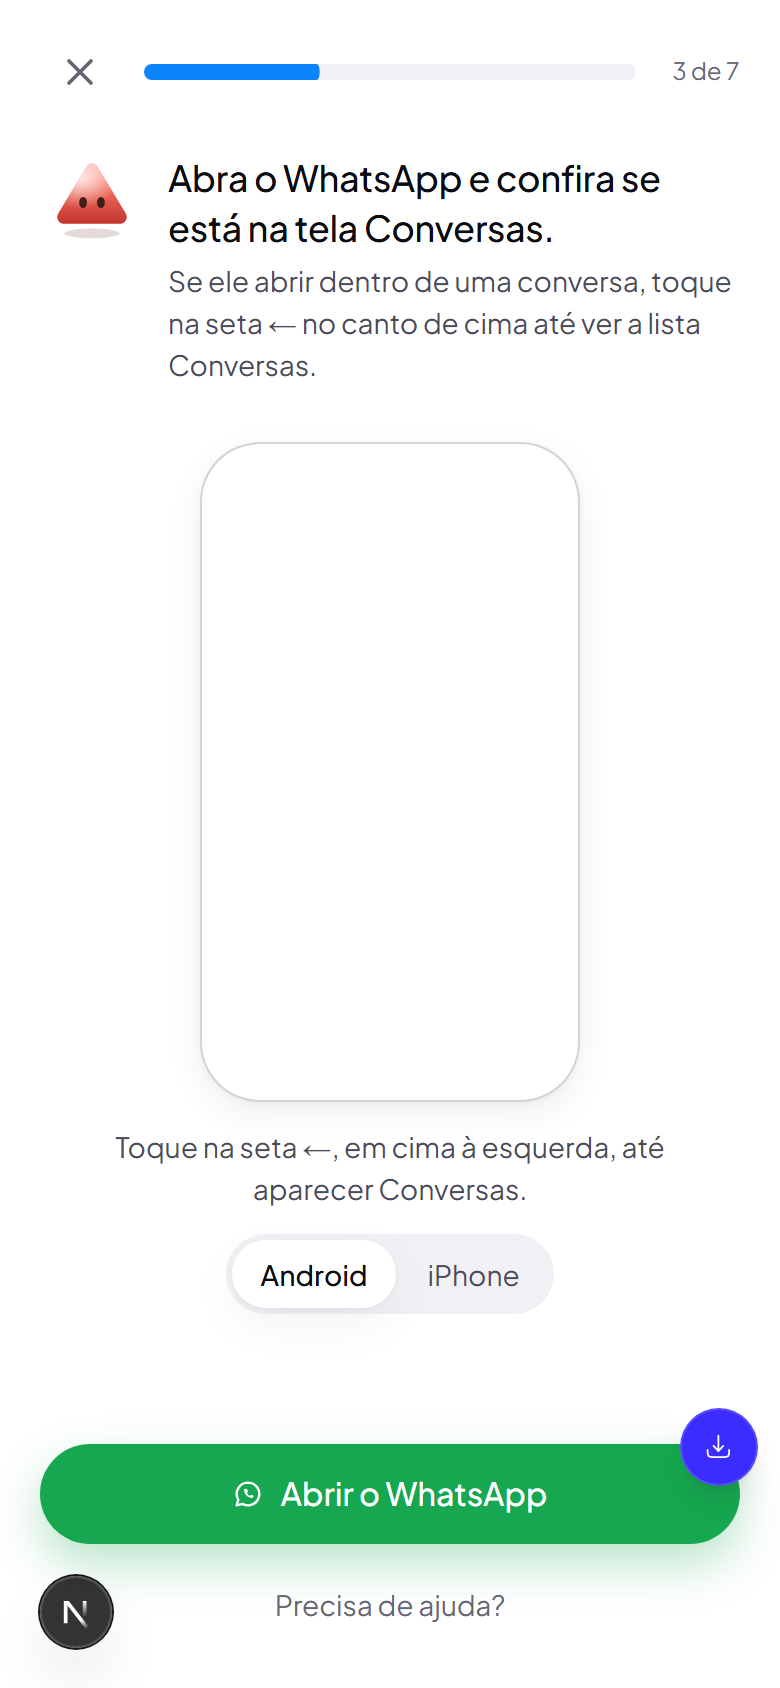
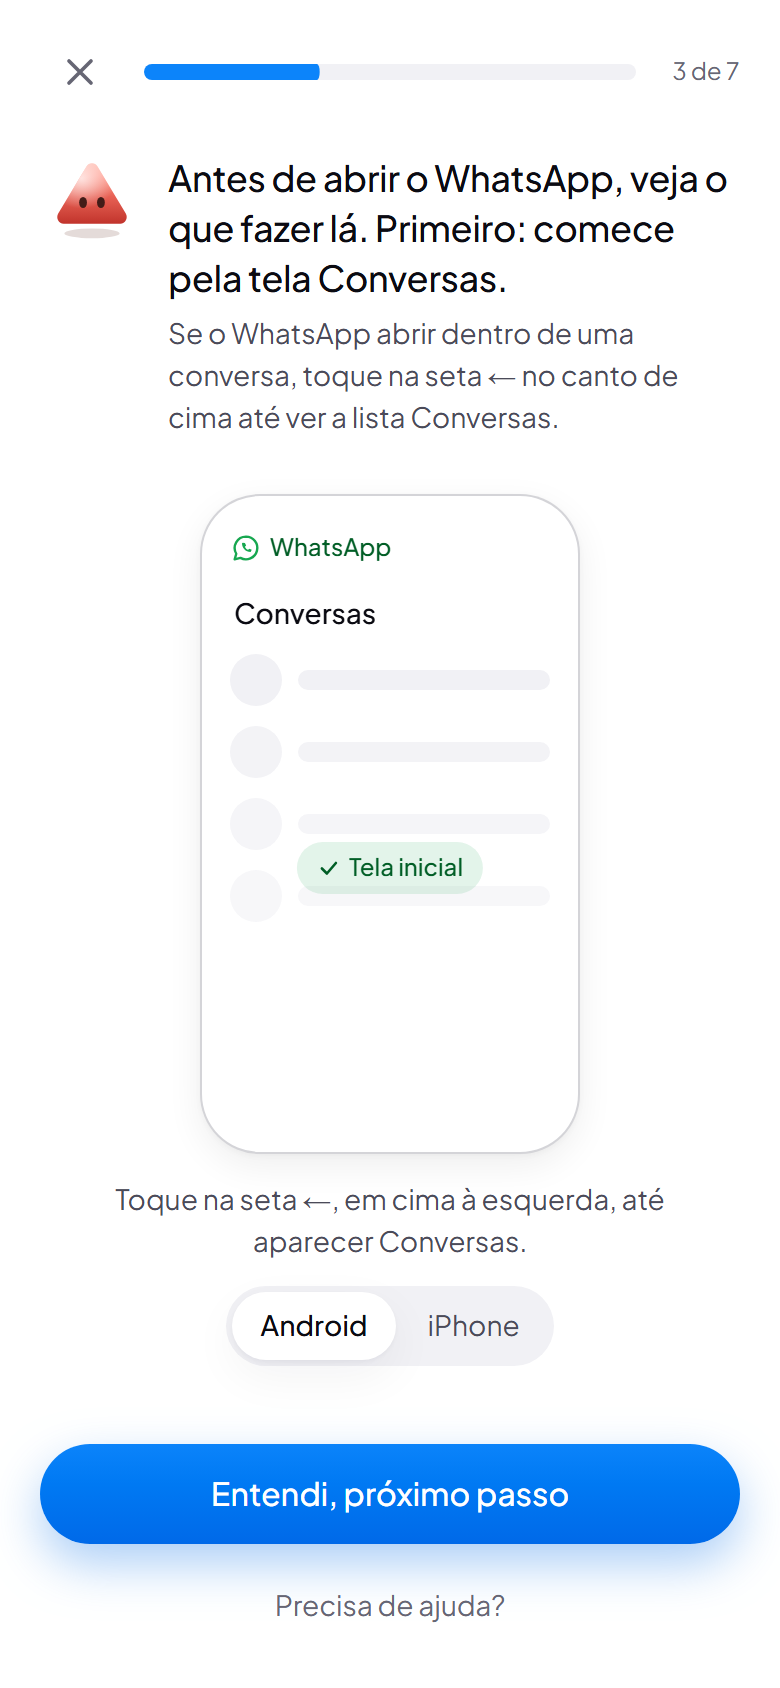
fix(plantao): o tutorial do WhatsApp vem todo antes de abrir o app
A tela inicial deixava o corretor abrir o WhatsApp antes de ver os 4 toques, e o caminho aparecia só
depois. Agora a tela inicial e o caminho são um tutorial antes de sair do app; o WhatsApp abre uma vez,
no fim do caminho, depois do resumo "Quando o WhatsApp abrir:" (tela inicial e 3 pontinhos).

diff --git a/src/app/dev/roteiro-presenca/roteiro-preview.tsx b/src/app/dev/roteiro-presenca/roteiro-preview.tsx
@@ -16,7 +16,7 @@ import styles from "./roteiro.module.css";
  * Parâmetros para prints: ?aparelho=celular|computador&passo=…&erro=…&modo=online|presencial&limpo=1
  */
 type Mode = "online" | "presencial";
-type Screen = "cartao" | "retomar" | "fim" | GuideStep | "telainicial-aberto" | "codigo-copiado";
+type Screen = "cartao" | "retomar" | "fim" | GuideStep | "codigo-copiado";
 type Sim = "expirado" | "espera" | "falhou" | "recusado" | "demorando" | "naoabriu" | "copia" | "instavel" | "desconectou" | "atrasado" | "confirmar-erro";
 
 const CODE_A = "K7QM2XPD";
@@ -31,7 +31,6 @@ const SCREENS: { id: Screen; label: string }[] = [
   { id: "codigo", label: "2. Código" },
   { id: "codigo-copiado", label: "2. Copiado" },
   { id: "telainicial", label: "3. Tela inicial" },
-  { id: "telainicial-aberto", label: "3. Tela inicial (voltou)" },
   { id: "caminho", label: "4. Caminho" },
   { id: "esperando", label: "5. Esperando" },
   { id: "conectado", label: "6. Conectado" },
@@ -72,7 +71,6 @@ function setupFor(screen: Screen, sim: Sim | null, device: GuideDevice): Setup {
     case "codigo": step("codigo"); break;
     case "codigo-copiado": step("codigo"); preview.copied = true; break;
     case "telainicial": step("telainicial"); break;
-    case "telainicial-aberto": step("telainicial"); preview.openedHome = true; break;
     case "caminho": step("caminho"); break;
     case "esperando": step("esperando"); break;
     case "conectado": connected(); break;
@@ -86,7 +84,7 @@ function setupFor(screen: Screen, sim: Sim | null, device: GuideDevice): Setup {
     case "falhou": step("codigo"); facts.code = null; facts.issue = "O WhatsApp demorou para liberar o código."; break;
     case "recusado": step("esperando"); facts.phase = "error"; break;
     case "demorando": step("esperando"); facts.phase = "pairing"; facts.stalled = true; break;
-    case "naoabriu": step("telainicial"); preview.local = "notOpened"; break;
+    case "naoabriu": step("caminho"); preview.local = "notOpened"; break;
     case "copia": step("codigo"); preview.local = "copyBlocked"; break;
     case "instavel": step("esperando"); facts.connectivity = "unreachable"; break;
     case "desconectou": step("boasvindas"); facts.started = false; facts.code = null; reconnect = true; break;
@@ -206,8 +204,8 @@ export function RoteiroPresencaPreview() {
         onFinish: () => apply("fim", null, device),
       }}
       onClose={() => apply("retomar", null, device)}
-      // Simulação: o primeiro "Abrir o WhatsApp" é o da tela inicial; do segundo em diante, conecta depois de 4 s.
-      openWhatsApp={() => { opens.current += 1; if (opens.current >= 2) later(4_000, connect); }}
+      // Simulação: o WhatsApp abre no fim do tutorial e conecta depois de 4 s.
+      openWhatsApp={() => { opens.current += 1; later(4_000, connect); }}
       preview={setup.preview}
     />
   );
@@ -234,7 +232,7 @@ export function RoteiroPresencaPreview() {
           <aside className={styles.panel} aria-label="Controles do protótipo">
             <div>
               <div className={styles.panelTitle}>Roteiro de presença · protótipo</div>
-              <p className={styles.panelHint}>Mesmo componente do app, com a conexão simulada. No fluxo, o segundo &quot;Abrir o WhatsApp&quot; conecta depois de 4 s (no computador, 6 s depois de começar).</p>
+              <p className={styles.panelHint}>Mesmo componente do app, com a conexão simulada. No fluxo, &quot;Abrir o WhatsApp&quot; conecta depois de 4 s (no computador, 6 s depois de começar).</p>
             </div>
             <Group label="Aparelho">
               <Chip on={device === "mobile"} onClick={() => { setDevice("mobile"); apply(setup.screen, sim, "mobile"); }}>Celular</Chip>

diff --git a/src/components/chat/presence-guide/presence-guide.tsx b/src/components/chat/presence-guide/presence-guide.tsx
@@ -62,7 +62,7 @@ export type PresenceGuidePresence = {
 };
 
 /** Só para o protótipo (/dev/roteiro-presenca) e testes: abre direto numa etapa ou estado. */
-export type PresenceGuidePreview = { step?: GuideStep; scene?: number; local?: LocalIssue | null; copied?: boolean; sheet?: "ajuda" | "sair" | "abrir" | null; platform?: GuidePlatform; openedHome?: boolean };
+export type PresenceGuidePreview = { step?: GuideStep; scene?: number; local?: LocalIssue | null; copied?: boolean; sheet?: "ajuda" | "sair" | "abrir" | null; platform?: GuidePlatform };
 
 export function PresenceGuide({ device, connection, duty, presence, onClose, openWhatsApp, preview }: {
   device: GuideDevice;
@@ -84,7 +84,6 @@ export function PresenceGuide({ device, connection, duty, presence, onClose, ope
   const [sheet, setSheet] = React.useState<"ajuda" | "sair" | "abrir" | null>(preview?.sheet ?? null);
   // O que fazer depois de abrir o WhatsApp pelo aviso "Quando o WhatsApp abrir" (seguir para a próxima etapa).
   const afterOpen = React.useRef<(() => void) | null>(null);
-  const [openedHome, setOpenedHome] = React.useState(preview?.openedHome ?? false);
   const [video, setVideo] = React.useState(false);
   const [showSteps, setShowSteps] = React.useState(false);
   const notOpenedTimer = React.useRef<number | null>(null);
@@ -202,11 +201,7 @@ export function PresenceGuide({ device, connection, duty, presence, onClose, ope
     switch (error) {
       case "expired": case "cooldown": case "issue": case "stalled": regenerate(); return;
       case "rejected": setLocal(null); setLocalStep("numero"); return;
-      case "notOpened":
-        setLocal(null);
-        if (localStep === "telainicial") setOpenedHome(true);
-        else setLocalStep("esperando");
-        return;
+      case "notOpened": setLocal(null); setLocalStep("esperando"); return;
       case "copyBlocked": setLocal(null); setLocalStep("telainicial"); return;
       case "unstable": case "confirm": presence.onConfirm(); return;
       default:
@@ -319,9 +314,9 @@ export function PresenceGuide({ device, connection, duty, presence, onClose, ope
             </div>
           </>
         );
-        cta$ = openedHome
-          ? <button type="button" className={styles.cta} onClick={() => { setScene(0); setLocalStep("caminho"); }}>{COPY.home.cta}</button>
-          : <button type="button" className={styles.cta} data-tone="whatsapp" onClick={() => askToOpenWhatsApp(() => setOpenedHome(true))}><WaIcon light /> {COPY.home.open}</button>;
+        // Tutorial antes de sair do app (09/11): a tela inicial e os 4 toques aparecem primeiro; o WhatsApp só
+        // abre uma vez, no fim do caminho.
+        cta$ = <button type="button" className={styles.cta} onClick={() => { setScene(0); setLocalStep("caminho"); }}>{COPY.home.cta}</button>;
         break;
       case "caminho":
         scene$ = (

diff --git a/src/components/chat/presence-guide/presence-guide.test.tsx b/src/components/chat/presence-guide/presence-guide.test.tsx
@@ -27,7 +27,7 @@ beforeEach(() => {
 afterEach(() => { cleanup(); vi.useRealTimers(); });
 
 describe("PresenceGuide (roteiro guiado de presença, 09/11)", () => {
-  it("copiar o código leva à tela inicial, que abre o WhatsApp e depois pede para confirmar a tela Conversas", async () => {
+  it("copiar o código leva ao tutorial (tela inicial e 4 toques) antes de abrir o WhatsApp, que abre uma vez só no fim", async () => {
     const open = vi.fn();
     render(<PresenceGuide device="mobile" connection={connection()} duty={duty} presence={presence()} onClose={vi.fn()} openWhatsApp={open} preview={{ step: "codigo" }} />);
     expect(screen.getByText("2 de 7")).toBeTruthy();
@@ -35,18 +35,22 @@ describe("PresenceGuide (roteiro guiado de presença, 09/11)", () => {
     expect(screen.getByText("Código copiado")).toBeTruthy();
     await act(async () => { vi.advanceTimersByTime(1_000); });
 
-    expect(screen.getByText("Abra o WhatsApp e confira se está na tela Conversas.")).toBeTruthy();
+    expect(screen.getByText(/Antes de abrir o WhatsApp, veja o que fazer lá/)).toBeTruthy();
     expect(screen.getByText("3 de 7")).toBeTruthy();
+    expect(screen.queryByRole("button", { name: /Abrir o WhatsApp/ })).toBeNull();
+    fireEvent.click(screen.getByRole("button", { name: "Entendi, próximo passo" }));
+    expect(screen.getByText("Depois, na tela Conversas, você vai tocar em 4 lugares. Veja:")).toBeTruthy();
+    expect(screen.getByText("4 de 7")).toBeTruthy();
+    for (let i = 0; i < 3; i += 1) fireEvent.click(screen.getByRole("button", { name: "Próximo toque" }));
+    expect(open).not.toHaveBeenCalled();
     fireEvent.click(screen.getByRole("button", { name: /Abrir o WhatsApp/ }));
-    // Antes de sair do app, o aviso: tela inicial e 3 pontinhos. Só o botão do aviso abre o WhatsApp.
+    // Antes de sair do app, o resumo: tela inicial e 3 pontinhos. Só o botão do aviso abre o WhatsApp.
     expect(open).not.toHaveBeenCalled();
     expect(screen.getByRole("dialog", { name: "Quando o WhatsApp abrir:" })).toBeTruthy();
     expect(screen.getByText(/toque nos 3 pontinhos/)).toBeTruthy();
     fireEvent.click(screen.getByRole("button", { name: /Entendi, abrir o WhatsApp/ }));
     expect(open).toHaveBeenCalledTimes(1);
-    fireEvent.click(screen.getByRole("button", { name: "Estou na tela de Conversas" }));
-    expect(screen.getByText("Agora, no WhatsApp, você vai tocar em 4 lugares. Veja:")).toBeTruthy();
-    expect(screen.getByText("4 de 7")).toBeTruthy();
+    expect(screen.getByText("5 de 7")).toBeTruthy();
   });
 
   it("o caminho tem 4 toques e o último abre o WhatsApp e espera a conexão", () => {

diff --git a/src/features/waha-cadence/pairing-copy.ts b/src/features/waha-cadence/pairing-copy.ts
@@ -266,15 +266,15 @@ export const PRESENCE_GUIDE_COPY = {
     cta: "Copiar código",
     next: "Continuar",
   },
+  // Tutorial antes de abrir (09/11): primeiro o que fazer no WhatsApp; ele só abre no fim do caminho.
   home: {
-    title: "Abra o WhatsApp e confira se está na tela Conversas.",
-    sub: "Se ele abrir dentro de uma conversa, toque na seta ← no canto de cima até ver a lista Conversas.",
+    title: "Antes de abrir o WhatsApp, veja o que fazer lá. Primeiro: comece pela tela Conversas.",
+    sub: "Se o WhatsApp abrir dentro de uma conversa, toque na seta ← no canto de cima até ver a lista Conversas.",
     captions: { android: "Toque na seta ←, em cima à esquerda, até aparecer Conversas.", iphone: "Toque em ‹ Voltar, em cima à esquerda, até aparecer Conversas." },
-    open: "Abrir o WhatsApp",
-    cta: "Estou na tela de Conversas",
+    cta: "Entendi, próximo passo",
   },
   path: {
-    title: "Agora, no WhatsApp, você vai tocar em 4 lugares. Veja:",
+    title: "Depois, na tela Conversas, você vai tocar em 4 lugares. Veja:",
     sub: (n: number) => `Toque ${n} de 4`,
     steps: {
       android: ["Na tela Conversas, toque nos três pontinhos, em cima.", "Toque em Dispositivos conectados.", "Toque em Conectar dispositivo.", "Embaixo, toque em Conectar com número de telefone e cole o código."],

diff --git a/docs/implementations/active/2026-11-09-roteiro-guiado-presenca-whatsapp.md b/docs/implementations/active/2026-11-09-roteiro-guiado-presenca-whatsapp.md
@@ -320,3 +320,13 @@ Pedido do Vinicios: "Abrir o WhatsApp" não abria o app; e, antes de abrir, most
   cima à direita (no iPhone, Configurações embaixo), com a ilustração do toque. O app abre pelo botão
   "Entendi, abrir o WhatsApp" do aviso (o toque do corretor, que o celular exige para abrir outro app).
 - Continua sem teste em Android e iPhone reais.
+
+## 12. Ajuste de 09/11 (noite): o tutorial vem todo antes de abrir o WhatsApp
+
+Pedido do Vinicios: o tutorial das próximas etapas aparecia depois de abrir o WhatsApp; ele tem de vir antes.
+
+- A etapa "tela inicial" (3 de 7) deixou de abrir o WhatsApp: agora só ensina ("Antes de abrir o WhatsApp, veja o
+  que fazer lá. Primeiro: comece pela tela Conversas.") e segue com "Entendi, próximo passo".
+- O caminho (4 de 7) mostra os 4 toques ("Depois, na tela Conversas, …") e só no fim tem "Abrir o WhatsApp", que
+  mostra o resumo "Quando o WhatsApp abrir:" (tela inicial e 3 pontinhos) e abre o app. O WhatsApp abre uma vez só.
+- "Não abriu?" agora leva direto para a espera.
